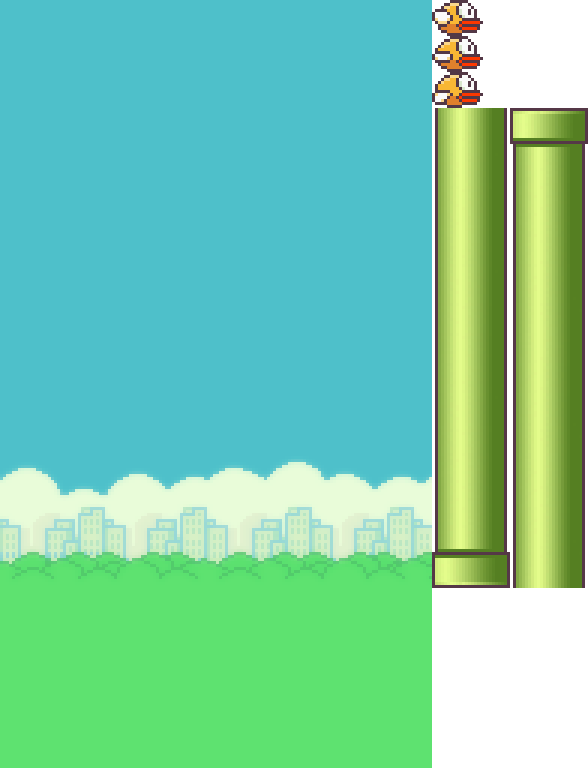
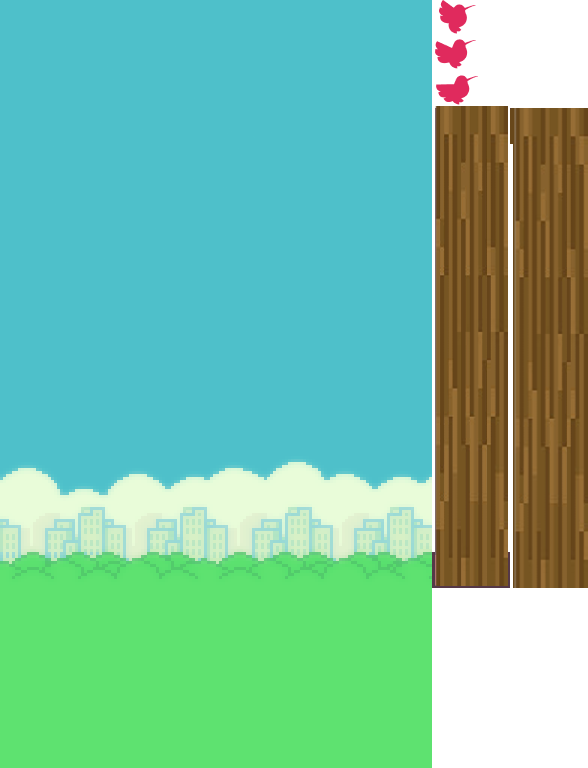
UPDATE: version Tweetz

Changed region(s): [[0.7347, 0.0, 1.0, 0.7812]]

diff --git a/index.html b/index.html
@@ -5,7 +5,7 @@
   <meta name="viewport" content="width=device-width, initial-scale=1.0">
   <meta http-equiv="X-UA-Compatible" content="ie=edge">
     
-  <title>Floppy Bird</title>
+  <title>Gery Bird</title>
 
   <link href="./style.css" rel="stylesheet">
 </head>
@@ -13,12 +13,15 @@
 <body>
 
   <header>
-    <h1>Flop Bird</h1>
+    <h1>Gery Bird</h1>
     <div class="score-container">
       <div id="bestScore"></div>
       <div id="currentScore"></div>
     </div>
-    <div class="input">
+
+    <!-- utile pour changer la difficulté -->
+     
+    <!-- <div class="input">
       <input type="radio" name="difficulty" id="easy" checked>
       <label for="easy">Facile</label>
     
@@ -27,7 +30,7 @@
     
       <input type="radio" name="difficulty" id="hard">
       <label for="hard">Hard</label>
-    </div>
+    </div> -->
   </header>
 
   <canvas id="canvas" width="431" height="768"></canvas>

diff --git a/script.js b/script.js
@@ -5,7 +5,7 @@ img.src = "./media/flappy-bird-set.png";
 
 let gamePlaying = false;
 const gravity = 0.15;
-const size = [51, 36];
+const size = [51, 35];
 const jump = -5;
 const cTenth = canvas.width / 10;
 
@@ -139,7 +139,7 @@ const render = () => {
     ctx.drawImage(
       img,
       432,
-      Math.floor((index % 9) / 3) * size[1],
+      Math.floor((index % 27) / 9) * size[1],  // changé de 18/6 à 27/9
       ...size,
       cTenth,
       flyHeight,
@@ -151,7 +151,7 @@ const render = () => {
     ctx.drawImage(
       img,
       432,
-      Math.floor((index % 9) / 3) * size[1],
+      Math.floor((index % 27) / 9) * size[1],  // changé de 18/6 à 27/9
       ...size,
       canvas.width / 2 - size[0] / 2,
       flyHeight,
